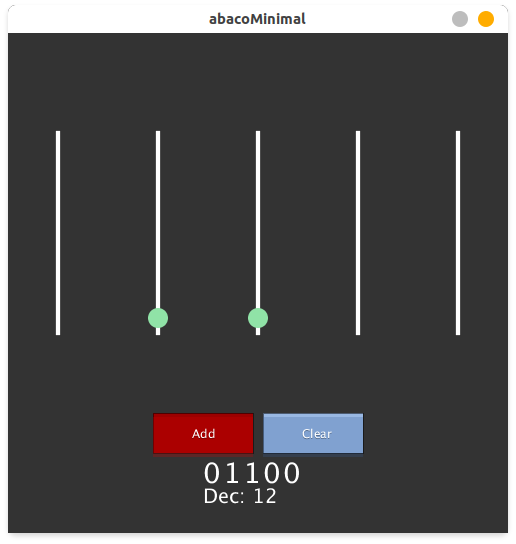
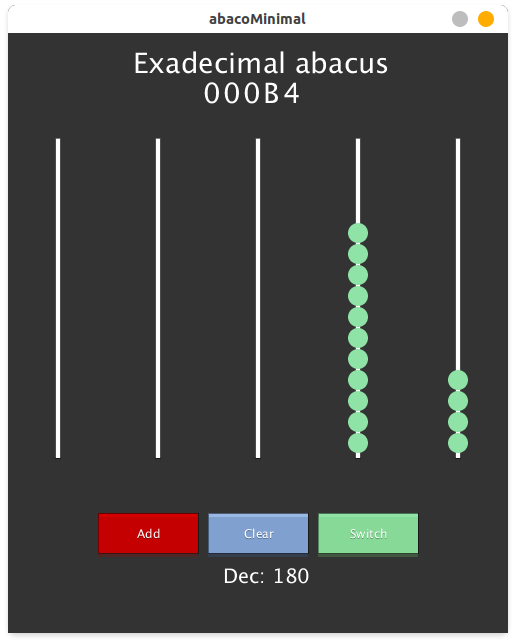
[feat] exadecimal base, switch button, refactoring

diff --git a/README.md b/README.md
@@ -1,12 +1,12 @@
 ## abacoMinimal
 
 :spaghetti: :spaghetti:
-~                                                                               
+                                                                               
 ## Screenshot
 
  <img
        src="https://raw.githubusercontent.com/v0lp3/abacoMinimal/master/screenshot.png"
        alt="abacoMinimal"
        width="516"
-       height="544"  
+       height="644"  
  /> 
